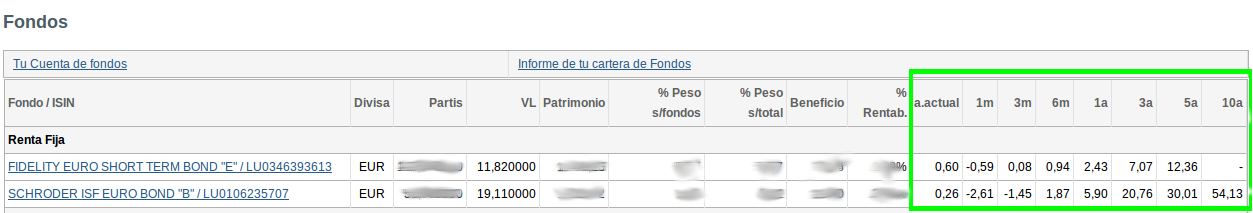
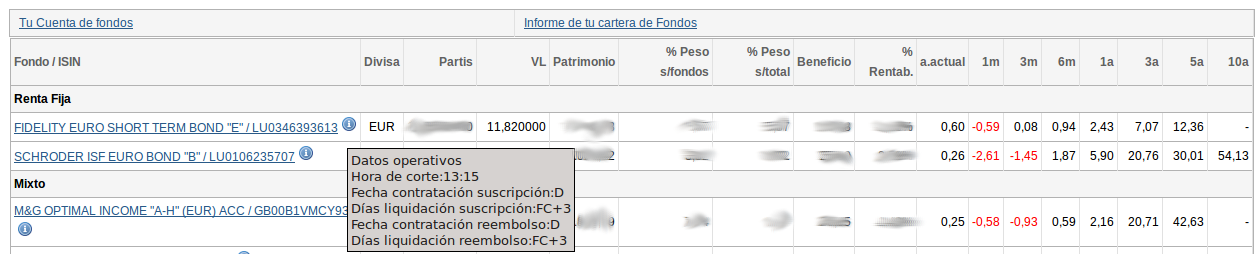
Añadido color rojo a numeros negativos y boton de informacion al lado de cada enlace

Changed region(s): [[0.0, 0.0282, 1.0, 1.0]]

diff --git a/scripts/Fondotop_Portfolio_Mejorado.user.js b/scripts/Fondotop_Portfolio_Mejorado.user.js
@@ -3,7 +3,7 @@
 // @namespace   https://github.com/enekogb/monkeystar
 // @description Mejoras en el portfolio de Fondotop
 // @include     https://www.fondotop.com/fondotop*
-// @version     1.0.0
+// @version     1.0.1
 // @grant       none
 // ==/UserScript==
 
@@ -45,11 +45,27 @@ $('a[href^="fondotop?TX=buscador_fnd"]').each(function (index, enlace) {
     async: false, // Parche para evitar el problema de que se solapen las respuestas
     success: function (data) {
       var isinRespuesta = $(data).find('.cajasmorningtit:contains("ISIN:")').next('td').text();
-      var datosFondo = ($(data).find('.cajasmorning:eq(6) tr:eq(1) .cajasmorningcont'));   
+      var datosFondo = ($(data).find('.cajasmorning:eq(6) tr:eq(1) .cajasmorningcont'));
+      var tablaDatosOperativos = ($(data).find('td .titamarillo:contains("Datos operativos")').parents('tbody').eq(0));
+      
+      // Pintamos los datos del fondo      
       $(datosFondo).each(function (index) {
         var valor = $(this).text();
         var celda = $(filasDatos[isinRespuesta]).children() [index + 9];
         $(celda).html(valor);
+        if (valor.indexOf('-') === 0 && valor.length > 1) {
+          $(celda).css('color', 'red');
+        }
+      });
+      
+      // Mostramos los datos operativos como titulo del enlace
+      var txtDatosOperativos = '';
+      tablaDatosOperativos.find('td').each(function(index){
+        txtDatosOperativos = txtDatosOperativos + $.trim($(this).text());
+        if ((index % 2) != 1) txtDatosOperativos = txtDatosOperativos + '\r\n';
+      });    
+      $(filasDatos[isinRespuesta]).find('a[href^="fondotop?TX=buscador_fnd"]').eq(0).each(function (index, enlace) {
+         $('<img />').attr('src','http://creativecommons.org/images/information.png').attr('title', txtDatosOperativos).css('margin-left', '3px').insertAfter($(enlace));
       });
     }
   });
